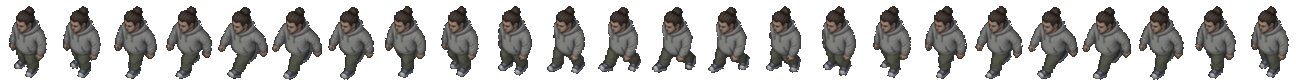
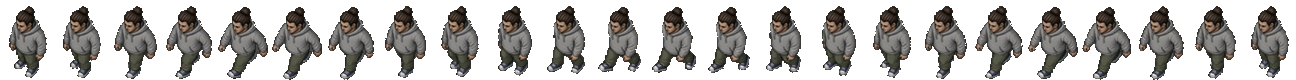
Draw the player at native pixels and use the matched walk sheets.
Each idle and walk texel is one screen pixel, and the walk sheets are the color-matched set.

diff --git a/js/player.js b/js/player.js
@@ -7,6 +7,7 @@ import {
   PlaneGeometry,
   SRGBColorSpace,
 } from "three";
+import { GROUND_H, GROUND_W, RENDER_H, RENDER_W } from "./constants.js";
 
 const DIRS = ["S", "SE", "E", "NE", "N", "NW", "W", "SW"];
 const FRAME_W = 54;
@@ -14,10 +15,11 @@ const FRAME_H = 80;
 const IDLE_W = 43;
 const IDLE_H = 73;
 const FRAMES = 24;
-// 60% of the full-size sheets. Rounded so each texel is one world unit.
-const SCALE = 0.6;
-// Brisk walk at this size. Frames advance from distance, so the cycle
-// speeds up with him and short steps get skipped.
+// The 960×540 picture frames 840×472.5 world units, so one render pixel is
+// 0.875 world units. Native texels use that size and land 1:1 on screen.
+const WORLD_PER_PX_X = GROUND_W / RENDER_W;
+const WORLD_PER_PX_Z = GROUND_H / RENDER_H;
+// Brisk walk. Frames advance from distance, so the cycle keeps up with him.
 const SPEED = 80;
 const SPRITE_Y = 4;
 const SHADOW_Y = 3;
@@ -110,33 +112,6 @@ function drawFrame(image, sx, sy, sw, sh) {
   return canvas;
 }
 
-function sampleDown(source) {
-  const sw = source.width;
-  const sh = source.height;
-  const dw = Math.max(1, Math.round(sw * SCALE));
-  const dh = Math.max(1, Math.round(sh * SCALE));
-  const src = source.getContext("2d", { willReadFrequently: true }).getImageData(0, 0, sw, sh).data;
-  const canvas = document.createElement("canvas");
-  canvas.width = dw;
-  canvas.height = dh;
-  const ctx = canvas.getContext("2d");
-  const out = ctx.createImageData(dw, dh);
-  for (let y = 0; y < dh; y += 1) {
-    for (let x = 0; x < dw; x += 1) {
-      const fromX = Math.min(sw - 1, Math.floor((x * sw) / dw));
-      const fromY = Math.min(sh - 1, Math.floor((y * sh) / dh));
-      const from = (fromY * sw + fromX) * 4;
-      const to = (y * dw + x) * 4;
-      out.data[to] = src[from];
-      out.data[to + 1] = src[from + 1];
-      out.data[to + 2] = src[from + 2];
-      out.data[to + 3] = src[from + 3];
-    }
-  }
-  ctx.putImageData(out, 0, 0);
-  return { texture: textureOf(canvas), w: dw, h: dh };
-}
-
 function solePoint(canvas) {
   const { width, height, data } = canvas.getContext("2d", { willReadFrequently: true })
     .getImageData(0, 0, canvas.width, canvas.height);
@@ -199,10 +174,10 @@ export async function createPlayer() {
   const walk = {};
   const idle = {};
   const advances = {};
-  let idleW = 1;
-  let idleH = 1;
-  let walkW = 1;
-  let walkH = 1;
+  const walkWorldW = FRAME_W * WORLD_PER_PX_X;
+  const walkWorldH = FRAME_H * WORLD_PER_PX_Z;
+  const idleWorldW = IDLE_W * WORLD_PER_PX_X;
+  const idleWorldH = IDLE_H * WORLD_PER_PX_Z;
 
   for (const dir of DIRS) {
     const sheet = await loadImage(new URL(`../assets/player/player_walk_${dir}_sheet.png`, import.meta.url));
@@ -211,27 +186,18 @@ export async function createPlayer() {
     for (let index = 0; index < FRAMES; index += 1) {
       const frame = drawFrame(sheet, index * FRAME_W, 0, FRAME_W, FRAME_H);
       frames.push(frame);
-      const sampled = sampleDown(frame);
-      textures.push(sampled.texture);
-      walkW = sampled.w;
-      walkH = sampled.h;
+      textures.push(textureOf(frame));
     }
-    const scaleX = walkW / FRAME_W;
-    const scaleZ = walkH / FRAME_H;
     const [axisX, axisY] = AXIS[dir];
-    const stride = strideOf(frames, axisX, axisY, scaleX, scaleZ);
+    const stride = strideOf(frames, axisX, axisY, WORLD_PER_PX_X, WORLD_PER_PX_Z);
     advances[dir] = stride.advances;
     walk[dir] = textures;
 
     const idleImage = await loadImage(new URL(`../assets/player/player_idle_${dir}.png`, import.meta.url));
-    const idleFrame = drawFrame(idleImage, 0, 0, IDLE_W, IDLE_H);
-    const sampledIdle = sampleDown(idleFrame);
-    idle[dir] = sampledIdle.texture;
-    idleW = sampledIdle.w;
-    idleH = sampledIdle.h;
+    idle[dir] = textureOf(drawFrame(idleImage, 0, 0, IDLE_W, IDLE_H));
   }
 
-  const geometry = new PlaneGeometry(walkW, walkH);
+  const geometry = new PlaneGeometry(walkWorldW, walkWorldH);
   geometry.rotateX(-Math.PI / 2);
   // Hard cutout. The sheets are fully opaque or fully clear, so nothing
   // fades the hoodie into the road.
@@ -249,7 +215,7 @@ export async function createPlayer() {
   mesh.frustumCulled = false;
   mesh.position.y = SPRITE_Y;
   mesh.renderOrder = 4;
-  mesh.scale.set(idleW / walkW, 1, idleH / walkH);
+  mesh.scale.set(idleWorldW / walkWorldW, 1, idleWorldH / walkWorldH);
 
   const shadowGeometry = new PlaneGeometry(18, 8);
   shadowGeometry.rotateX(-Math.PI / 2);
@@ -270,15 +236,27 @@ export async function createPlayer() {
   let dir = "S";
   let travel = 0;
 
+  function pixelBias(width, height) {
+    // Odd sizes need a half pixel so every texel sits on one screen pixel.
+    return {
+      x: (width % 2) * WORLD_PER_PX_X * 0.5,
+      z: (height % 2) * WORLD_PER_PX_Z * 0.5,
+    };
+  }
+
   function place(x, z) {
-    mesh.position.set(x, SPRITE_Y, z);
-    const height = walkH * mesh.scale.z;
-    shadow.position.set(x, SHADOW_Y, z + height * 0.42);
+    const idleNow = mesh.scale.x !== 1;
+    const bias = idleNow ? pixelBias(IDLE_W, IDLE_H) : pixelBias(FRAME_W, FRAME_H);
+    const px = x + bias.x;
+    const pz = z + bias.z;
+    mesh.position.set(px, SPRITE_Y, pz);
+    const height = walkWorldH * mesh.scale.z;
+    shadow.position.set(px, SHADOW_Y, pz + height * 0.42);
   }
 
   function showIdle() {
     material.map = idle[dir];
-    mesh.scale.set(idleW / walkW, 1, idleH / walkH);
+    mesh.scale.set(idleWorldW / walkWorldW, 1, idleWorldH / walkWorldH);
   }
 
   function showWalk(frame) {
